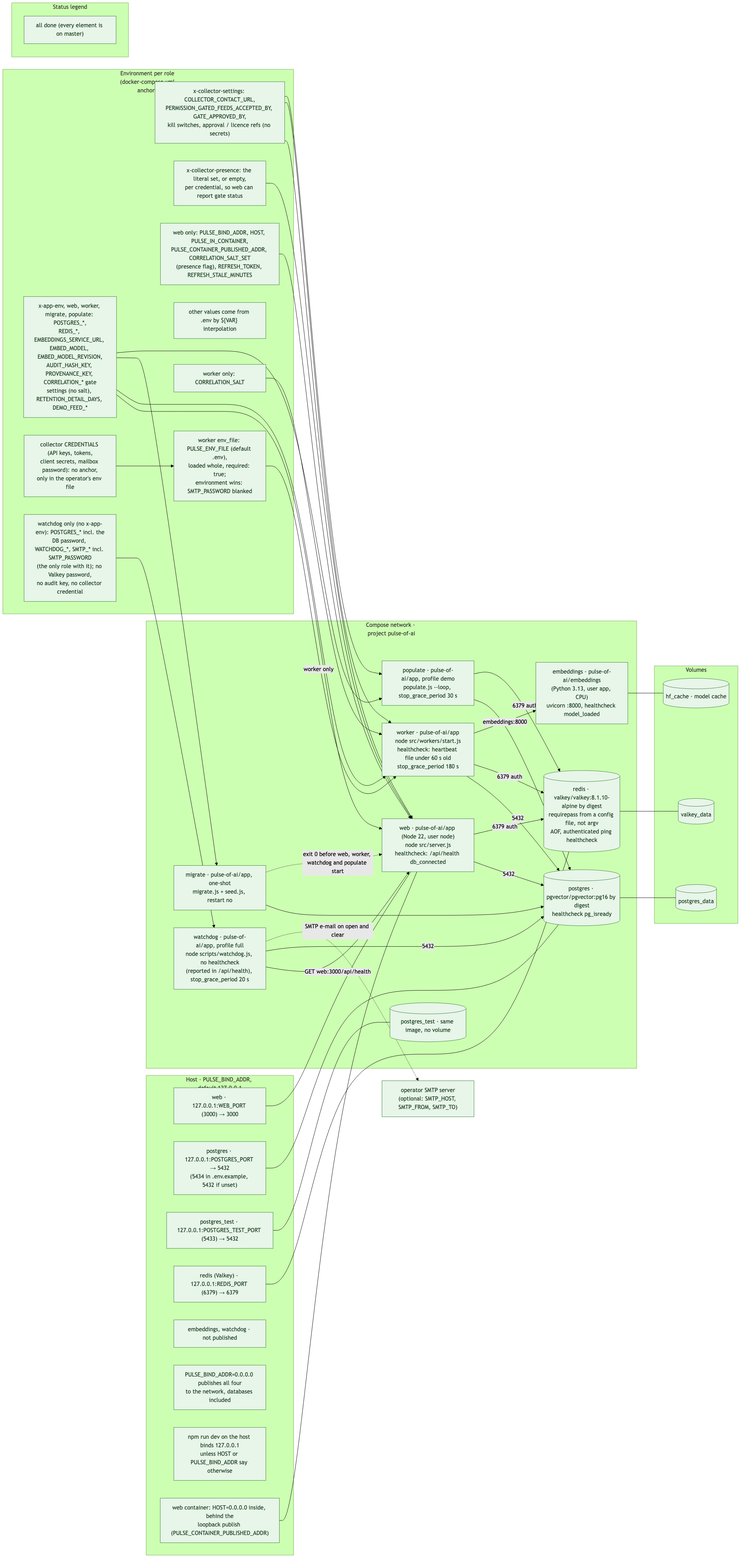
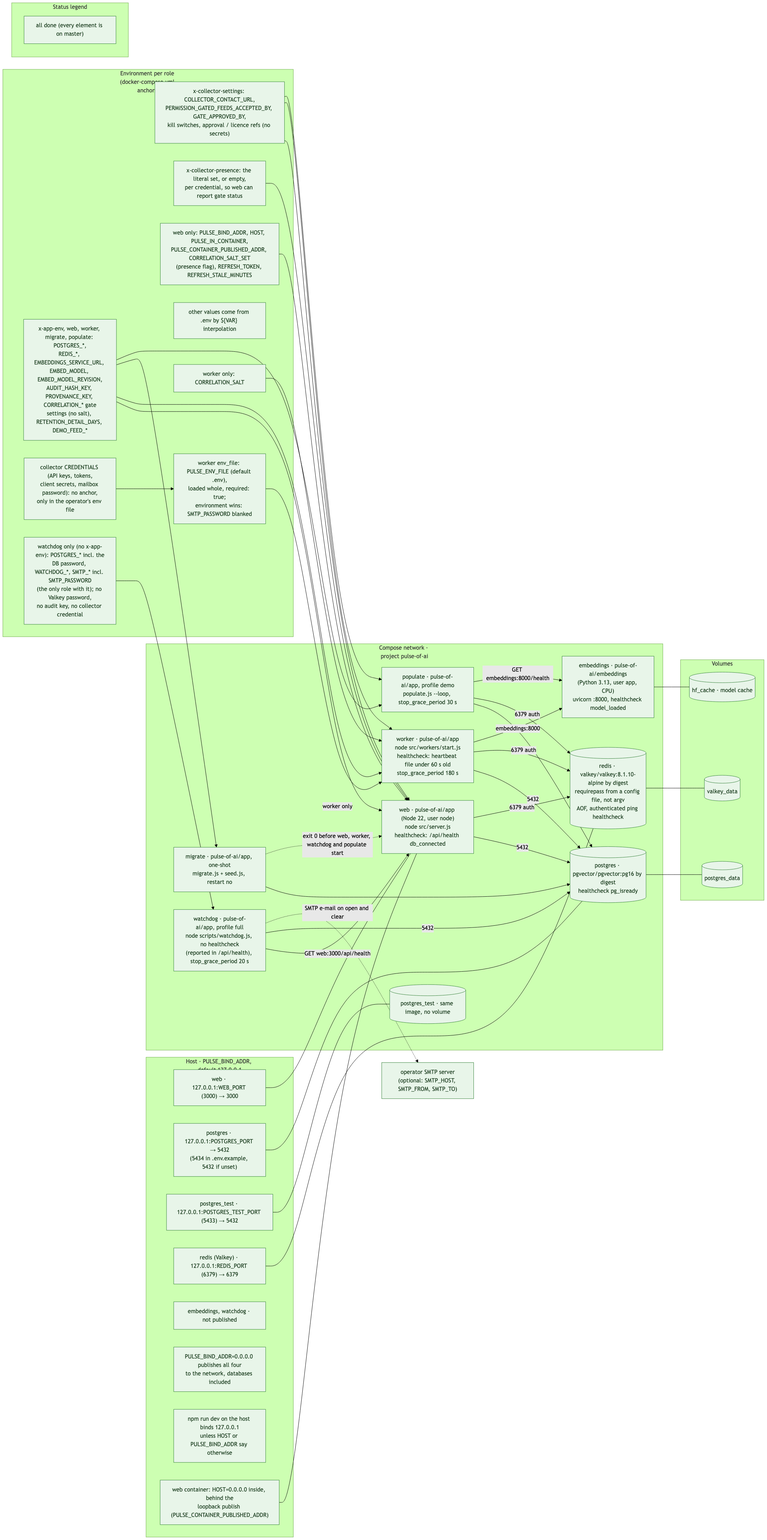
Fix the round-4 D1 and D2 diagram audit findings
D1 (architecture, deployment, trust boundaries, collection flows, refresh):
populate's direct embeddings health probe is drawn (F1); the proxy-header
list names only Forwarded, X-Forwarded-For / -Host and X-Real-IP (F2); the
claim rule carries the jitter slack (F3); robots.txt covers RSS / Atom,
Pew's WordPress API and Discourse forums (F4); retries cover network
errors but not DNS failures (F5); an unkeyed id is stored as SHA-256 (F6);
awaiting_retries jobs and dead closers close on the hard cap (F7).

D2 (ERDs, collector framework, README, MANIFEST, hash test): erd-3 names
the demo purge's profile deletes and its real writers (F1, F2); erd-4,
MANIFEST and README add migration 061 and the other errata / approval /
window writers (F3); ResponseDecodeError, endCooldown, decayRefusal and
probationOver are drawn (F4, F5); two spec-drift cells corrected (F6, F7);
MANIFEST spec cells include section 19 (F10); erd-1 and erd-4 gain Spec
lines so every .mmd names its spec sections (F11). The M2 and S3 hash-test
mutations now change rendered content: a drawn label word and one node's
class (F8, F9).

Eleven diagrams re-rendered (forest, under 8000 px, hash embedded) and
their MANIFEST PNG sizes regenerated. render.sh --check and
npm run test:diagrams (11 passed) pass.

Changed region(s): [[0.0, 0.0, 1.0, 1.0]]

diff --git a/docs/diagrams/data/erd-3-retention-and-correlation.html b/docs/diagrams/data/erd-3-retention-and-correlation.html
@@ -24,12 +24,12 @@
 </head>
 <body>
 <h1>Data model 3 of 4 · retention, rollups, correlation, migrations</h1>
-<p class="summary">The GDPR lifecycle log, the monthly rollups and compaction log of the layered retention model, the pseudonymous cross-platform correlation tables (never written: correlateUser throws; compaction only deletes demo sightings), the correlation gate log, and the migration ledger.</p>
+<p class="summary">The GDPR lifecycle log, the monthly rollups and compaction log of the layered retention model, the pseudonymous cross-platform correlation tables (never written: correlateUser throws; the demo purge of compaction only deletes demo sightings and the profiles they leave unreferenced, and recounts the others), the correlation gate log, and the migration ledger.</p>
 <p class="source">Canonical source: <code>erd-3-retention-and-correlation.mmd</code> · index: <code>docs/diagrams/README.md</code></p>
 <pre class="mermaid">
 %% Title: Data model 3 of 4 · retention, rollups, correlation, migrations
-%% Summary: The GDPR lifecycle log, the monthly rollups and compaction log of the layered retention model, the pseudonymous cross-platform correlation tables (never written: correlateUser throws; compaction only deletes demo sightings), the correlation gate log, and the migration ledger.
-%% Sources: src/db/migrations/002 (data_retention_log), 005, 006, 036 and 056 (correlation_gate_events, append-only trigger); scripts/migrate.js (schema_migrations). Writers: src/pipeline/ingest.js (collected), src/collectors/retention.js (blanked_platform_terms, text_removed_detail_window), src/collectors/run-retention.js (rolled_up_source_runs), scripts/compact.js (compacted, purged_demo, compaction_log), src/collectors/governance.js (correlation_gate_events), src/pipeline/correlation.js and correlation-gate.js. Spec: TECHNICAL_SPEC.md sections 19 (layered retention) and 20 (correlation). raw_posts and data_sources are shown with their keys only. Dotted lines are logical links without a foreign key.
+%% Summary: The GDPR lifecycle log, the monthly rollups and compaction log of the layered retention model, the pseudonymous cross-platform correlation tables (never written: correlateUser throws; the demo purge of compaction only deletes demo sightings and the profiles they leave unreferenced, and recounts the others), the correlation gate log, and the migration ledger.
+%% Sources: src/db/migrations/002 (data_retention_log), 005, 006, 036 and 056 (correlation_gate_events, append-only trigger); scripts/migrate.js (schema_migrations). Writers: src/pipeline/ingest.js (collected), src/collectors/retention.js (blanked_platform_terms, text_removed_detail_window), src/collectors/run-retention.js (rolled_up_source_runs), scripts/compact.js (compacted, purged_demo, compaction_log), src/collectors/governance.js (correlation_gate_events, with the status from src/pipeline/correlation-gate.js), scripts/compact.js (demo purge of user_platform_sightings and pseudonymous_users); src/pipeline/correlation.js writes nothing (correlateUser throws). Spec: TECHNICAL_SPEC.md sections 19 (layered retention) and 20 (correlation). raw_posts and data_sources are shown with their keys only. Dotted lines are logical links without a foreign key.
 erDiagram
 
   data_retention_log {

diff --git a/docs/diagrams/flows/collection-2-fetch-store-score.html b/docs/diagrams/flows/collection-2-fetch-store-score.html
@@ -35,8 +35,8 @@ flowchart LR
   subgraph FETCH["Fetch · one collector per open route"]
     direction TB
     F1["13 · buildCollectors(): one instance per open route;&lt;br/&gt;the constructor throws GateClosedError&lt;br/&gt;if route.requires is missing"]:::done
-    F2["14 · HttpClient checks every hop before sending it:&lt;br/&gt;https only, public host, route allowedHosts (SSRF guard),&lt;br/&gt;DNS answers checked and pinned;&lt;br/&gt;robots.txt for publisher RSS routes (conservative);&lt;br/&gt;redirects followed manually, max 4;&lt;br/&gt;a credentialed request never crosses origins"]:::done
-    F3["15 · User-Agent PulseOfAI/#lt;version#gt; (+contact URL);&lt;br/&gt;per-host spacing; 20 s timeout;&lt;br/&gt;2 retries on 429 / 5xx honouring Retry-After;&lt;br/&gt;ETag / Last-Modified → 304 not modified"]:::done
+    F2["14 · HttpClient checks every hop before sending it:&lt;br/&gt;https only, public host, route allowedHosts (SSRF guard),&lt;br/&gt;DNS answers checked and pinned;&lt;br/&gt;robots.txt for RSS / Atom feeds (not arXiv or&lt;br/&gt;licensed feeds), Pew's WordPress API and&lt;br/&gt;Discourse forums (conservative);&lt;br/&gt;redirects followed manually, max 4;&lt;br/&gt;a credentialed request never crosses origins"]:::done
+    F3["15 · User-Agent PulseOfAI/#lt;version#gt; (+contact URL);&lt;br/&gt;per-host spacing; 20 s timeout;&lt;br/&gt;at most 2 retries on 429 / 5xx (honouring Retry-After)&lt;br/&gt;and network errors (not DNS failures);&lt;br/&gt;ETag / Last-Modified → 304 not modified"]:::done
     F4["16 · caps: 5 MB decoded per response (route override),&lt;br/&gt;robots.txt 500 KiB, bulk file 50 MB;&lt;br/&gt;a DTD with entity declarations is refused"]:::done
     F5{"401 / 403 / 451, bot&lt;br/&gt;challenge or robots&lt;br/&gt;disallow?"}:::done
     F1 --&gt; F2 --&gt; F3 --&gt; F4 --&gt; F5
@@ -45,7 +45,7 @@ flowchart LR
   subgraph NORM["Normalise · base.js collect() → toPayload()"]
     direction TB
     N1["17 · raw text capped, HTML to text (linear),&lt;br/&gt;identity redaction, ingest@1.7.0: e-mails, @handles,&lt;br/&gt;Reddit u/ names, phones, profile links, cc names,&lt;br/&gt;sign-offs, Wikipedia unsigned notes"]:::done
-    N2["18 · allowlisted payload: title, text, link unless an&lt;br/&gt;identity link, published_at, language, city-level&lt;br/&gt;location (basis content or publisher), licence,&lt;br/&gt;attribution; an identity-bearing upstream id is&lt;br/&gt;stored only as route:fp:HMAC"]:::done
+    N2["18 · allowlisted payload: title, text, link unless an&lt;br/&gt;identity link, published_at, language, city-level&lt;br/&gt;location (basis content or publisher), licence,&lt;br/&gt;attribution; an identity-bearing upstream id is&lt;br/&gt;stored only as route:fp:HMAC (an unkeyed&lt;br/&gt;SHA-256 when no key is set)"]:::done
     N3["19 · provenance_fingerprint = HMAC-SHA256(&lt;br/&gt;PROVENANCE_KEY or AUDIT_HASH_KEY,&lt;br/&gt;slug : upstream id : source URL)"]:::done
     N4["20 · drop items older than maxAgeDays (default 7);&lt;br/&gt;admission filter admission_filter@1.0.0&lt;br/&gt;(AI scope, ai-filter.js) on scope 'filter' routes;&lt;br/&gt;dedupe within the batch"]:::done
     N1 --&gt; N2 --&gt; N3 --&gt; N4

diff --git a/docs/diagrams/data/erd-4-governance-alerting-maintenance.html b/docs/diagrams/data/erd-4-governance-alerting-maintenance.html
@@ -29,7 +29,7 @@
 <pre class="mermaid">
 %% Title: Data model 4 of 4 · governance, alert resolutions, maintenance, watchdog, rolling bias window
 %% Summary: The audited alert resolutions and their named approvals (with the alert_status view), methodology errata, the daily source-run rollup, the source gate and terms-snapshot logs, the maintenance and watchdog state, the watchdog e-mail log, and the rolling 24 h bias window runs and assessments.
-%% Sources: src/db/migrations/028, 030, 032, 034, 035, 036, 038, 039, 041, 050, 056, 060. Writers: src/collectors/source-alerts.js, src/watchdog/store.js and migrations 028, 032, 038 (resolutions of historical alerts) (alert_resolutions), src/collectors/run-retention.js (source_run_daily), src/collectors/governance.js (source_gate_events, source_terms_snapshots), src/workers/maintenance.worker.js (maintenance_state), src/watchdog/store.js (watchdog_state, watchdog_notifications), src/pipeline/bias-window.js and bias.js (bias_window_*), scripts/seed.js and migration 030 (methodology_errata). alert_events, methodology_versions and data_sources are shown with their keys only (full columns in data models 1 and 2). APPEND-ONLY (BEFORE UPDATE OR DELETE trigger forbid_append_only_change): alert_resolutions, alert_resolution_approvals, methodology_errata, source_gate_events, source_terms_snapshots (036), watchdog_notifications (050), bias_window_assessments (060); correlation_gate_events (056) is in data model 3. VIEW_alert_status is a view, not a table. Dotted lines are logical links without a foreign key.
+%% Sources: src/db/migrations/028, 030, 032, 034, 035, 036, 038, 039, 041, 050, 056, 060, 061. Writers: src/collectors/source-alerts.js, src/watchdog/store.js and migrations 028, 032, 038 (resolutions of historical alerts) (alert_resolutions), src/collectors/run-retention.js (source_run_daily), src/collectors/governance.js (source_gate_events, source_terms_snapshots), src/workers/maintenance.worker.js (maintenance_state), src/watchdog/store.js (watchdog_state, watchdog_notifications), src/pipeline/bias-window.js and bias.js (bias_window_*), scripts/seed.js and migrations 030 and 061 (methodology_errata), migration 036 (alert_resolution_approvals). alert_events, methodology_versions and data_sources are shown with their keys only (full columns in data models 1 and 2). APPEND-ONLY (BEFORE UPDATE OR DELETE trigger forbid_append_only_change): alert_resolutions, alert_resolution_approvals, methodology_errata, source_gate_events, source_terms_snapshots (036), watchdog_notifications (050), bias_window_assessments (060); correlation_gate_events (056) is in data model 3. VIEW_alert_status is a view, not a table. Dotted lines are logical links without a foreign key. Spec: TECHNICAL_SPEC.md sections 6, 9, 14, 17, 19.
 erDiagram
 
   alert_resolutions {

diff --git a/docs/diagrams/architecture/trust-boundaries.html b/docs/diagrams/architecture/trust-boundaries.html
@@ -42,7 +42,7 @@ flowchart LR
     direction TB
     C1["every response: CSP default-src 'self', script-src 'self',&lt;br/&gt;style-src 'self', object-src 'none', base-uri 'self',&lt;br/&gt;frame-ancestors 'none';&lt;br/&gt;X-Content-Type-Options nosniff, X-Frame-Options DENY,&lt;br/&gt;Referrer-Policy no-referrer"]:::done
     C2["CORS only on the read-only router;&lt;br/&gt;POST /api/refresh mounted first, without CORS,&lt;br/&gt;OPTIONS answered 403"]:::done
-    C3["refresh CSRF guard: Sec-Fetch-Site must be same-origin or none;&lt;br/&gt;if the header is absent, Origin (else Referer) host = Host;&lt;br/&gt;anything else 403;&lt;br/&gt;X-Refresh-Token checked whenever REFRESH_TOKEN is set;&lt;br/&gt;no token set: 403 when bound beyond loopback,&lt;br/&gt;on a wildcard bind outside the compose container,&lt;br/&gt;or via a proxy (Forwarded, X-Forwarded-#42;, X-Real-IP);&lt;br/&gt;409 in flight, 60 s global debounce"]:::done
+    C3["refresh CSRF guard: Sec-Fetch-Site must be same-origin or none;&lt;br/&gt;if the header is absent, Origin (else Referer) host = Host;&lt;br/&gt;anything else 403;&lt;br/&gt;X-Refresh-Token checked whenever REFRESH_TOKEN is set;&lt;br/&gt;no token set: 403 when bound beyond loopback,&lt;br/&gt;on a wildcard bind outside the compose container,&lt;br/&gt;or via a proxy (Forwarded, X-Forwarded-For / -Host, X-Real-IP);&lt;br/&gt;409 in flight, 60 s global debounce"]:::done
     C4["input validation: UUID post ids, integer hours,&lt;br/&gt;canonical categories, dates, limit ≤ 100;&lt;br/&gt;malformed JSON → 400 JSON (jsonErrorHandler);&lt;br/&gt;no stack, path or upstream text in any error;&lt;br/&gt;500s return a generic message only"]:::done
     C5["audit input_hash served as HMAC(AUDIT_HASH_KEY),&lt;br/&gt;omitted without a key; /api/sources serves error_kind&lt;br/&gt;and http_status, never error text or env values"]:::done
     C6["frontend: textContent only, no innerHTML;&lt;br/&gt;all assets self-hosted, no CDN"]:::done

diff --git a/docs/diagrams/data/erd-1-sources-and-jobs.html b/docs/diagrams/data/erd-1-sources-and-jobs.html
@@ -29,7 +29,7 @@
 <pre class="mermaid">
 %% Title: Data model 1 of 4 · sources, collection state, jobs, alerts, Reddit
 %% Summary: The tables that describe the 52 registry sources, their collection state and runs, the processing jobs every score belongs to, alerts, and Reddit's selection, budget and maintenance state.
-%% Sources: src/db/migrations/001, 003, 013, 016, 018, 019, 020, 021, 023, 025, 033, 037, 038, 040, 050, 062. Alert writers: src/pipeline/bias.js (writeAlertEvent), src/collectors/source-alerts.js, source-health.js, retention-overdue.js, state.js, governance.js, src/watchdog/store.js and conditions.js. raw_posts is shown with its keys only (full columns in data model 2); alert resolutions, run rollups, gate events and the watchdog tables are in data model 4. Dotted lines are logical links without a foreign key. NOTE_alert_type_values is a legend box, not a table.
+%% Sources: src/db/migrations/001, 003, 013, 016, 018, 019, 020, 021, 023, 025, 033, 037, 038, 040, 050, 062. Alert writers: src/pipeline/bias.js (writeAlertEvent), src/collectors/source-alerts.js, source-health.js, retention-overdue.js, state.js, governance.js, src/watchdog/store.js and conditions.js. raw_posts is shown with its keys only (full columns in data model 2); alert resolutions, run rollups, gate events and the watchdog tables are in data model 4. Dotted lines are logical links without a foreign key. NOTE_alert_type_values is a legend box, not a table. Spec: TECHNICAL_SPEC.md section 6.
 erDiagram
 
   data_sources {

diff --git a/docs/diagrams/flows/collection-3-cycle-close-bias-alerts.html b/docs/diagrams/flows/collection-3-cycle-close-bias-alerts.html
@@ -34,7 +34,7 @@ flowchart LR
 
   subgraph CLOSE["Cycle close · worker timer every 30 s"]
     direction TB
-    C1["29 · claimDueCycles(): FOR UPDATE SKIP LOCKED,&lt;br/&gt;status → closing, for every cron job whose window&lt;br/&gt;+ 60 s grace has passed with inflight_runs ≤ 0&lt;br/&gt;(or past the hard cap max(15 min, 4 × window)),&lt;br/&gt;and every awaiting_retries job whose retries are done"]:::done
+    C1["29 · claimDueCycles(): FOR UPDATE SKIP LOCKED,&lt;br/&gt;status → closing, for every cron job whose window&lt;br/&gt;+ 60 s grace has passed with inflight_runs ≤ 0&lt;br/&gt;(or past the hard cap max(15 min, 4 × window)),&lt;br/&gt;every awaiting_retries job whose retries are done&lt;br/&gt;(or past the same cap), and a cycle left closing&lt;br/&gt;by a dead closer (2 × the cap)"]:::done
     C2["30 · posts = COUNT(DISTINCT raw_post_id)&lt;br/&gt;in decision_audit_log for the job"]:::done
     C3{"posts #gt; 0?"}:::done
     C4["31 · runBiasChecks(job, bias@1.6.0), once:&lt;br/&gt;location_concentration (content-located posts,&lt;br/&gt;publisher-located excluded, min 30) ·&lt;br/&gt;platform_sentiment_parity (categories with ≥ 10&lt;br/&gt;posts, at least 2) · negative_dominance (min 30)&lt;br/&gt;→ 3 bias_assessments rows with methodology_version_id;&lt;br/&gt;below a minimum: #quot;insufficient sample#quot;,&lt;br/&gt;no violation, no alert"]:::done

diff --git a/docs/diagrams/flows/collection-1-schedule-and-gates.html b/docs/diagrams/flows/collection-1-schedule-and-gates.html
@@ -62,7 +62,7 @@ flowchart LR
     R2{"10 · database kill switch?&lt;br/&gt;data_sources.collection_disabled_at&lt;br/&gt;(npm run source:disable, refused&lt;br/&gt;without GATE_APPROVED_BY)"}:::done
     R3{"11 · refused state?&lt;br/&gt;source_collection_state&lt;br/&gt;access_denied_at, refused_until"}:::done
     R4["SOURCE_#lt;SLUG#gt;_RESET date at or after the&lt;br/&gt;last refusal and a valid GATE_APPROVED_BY:&lt;br/&gt;clearRefusal() + source_gate_events&lt;br/&gt;refusal_reset, one transaction"]:::done
-    R5{"12 · claim: last attempt older than&lt;br/&gt;the poll interval? (state.claim,&lt;br/&gt;atomic across worker and refresh)"}:::done
+    R5{"12 · claim: last attempt older than&lt;br/&gt;the poll interval, less a jitter slack&lt;br/&gt;(at most 20 %)? (state.claim,&lt;br/&gt;atomic across worker and refresh)"}:::done
     R1 -- no --&gt; R2
     R2 -- no --&gt; R3
     R3 -- "reset by env" --&gt; R4 --&gt; R5

diff --git a/docs/diagrams/sequences/refresh.html b/docs/diagrams/sequences/refresh.html
@@ -80,7 +80,7 @@ sequenceDiagram
   I-&gt;&gt;DB: scores + audit rows under the job, slot released,&lt;br/&gt;embed job when the relevance gate passes
   alt slots still held when the run ends
     W-&gt;&gt;DB: job awaiting_retries
-    Note over DB: cycle closer (every 30 s) finalizes it once every slot is released:&lt;br/&gt;counts from decision_audit_log, bias checks once, completed
+    Note over DB: cycle closer (every 30 s) finalizes it once every slot is released&lt;br/&gt;(or its age passes the hard cap max(15 min, 4 × window)):&lt;br/&gt;counts from decision_audit_log, bias checks once, completed
   else no slot held
     W-&gt;&gt;DB: completed: posts_processed counted from decision_audit_log,&lt;br/&gt;bias checks once when &gt; 0 (cycle.jobPostsProcessed)
   end

diff --git a/docs/diagrams/model/collector-framework.html b/docs/diagrams/model/collector-framework.html
@@ -158,6 +158,7 @@ classDiagram
     RedirectRefusedError
     ResponseTooLargeError
     BudgetExhaustedError
+    ResponseDecodeError
   }
   CollectorError &lt;|-- ErrorTypes
 
@@ -218,6 +219,8 @@ classDiagram
     +getRefusal(sourceId)
     +recordRefusal(sourceId, refusal, slug)
     +clearRefusal(sourceId, resolution, o: client)
+    +endCooldown(sourceId, probedDeniedAt) probe ok: 24 h probation, count kept
+    +decayRefusal(sourceId) count to 0 after probation
   }
   class cycle {
     &lt;&lt;module cycle.js&gt;&gt;
@@ -234,6 +237,7 @@ classDiagram
     +envReset(slug, env, deniedAt) date AND named approval
     +refusalOf(classified)
     +cooldownMs(n)
+    +probationOver(row, now)
     +resetEnv(slug)
   }
   class status {

diff --git a/docs/diagrams/architecture.html b/docs/diagrams/architecture.html
@@ -161,6 +161,7 @@ flowchart LR
   M1 -- "migrations + seed" --&gt; D0
   M2 -- "demo posts through the real scorers" --&gt; D2
   M2 -- "embed jobs" --&gt; Q3
+  M2 -- "GET /health (model loaded?)" --&gt; E1
   WD1 -- "GET /api/health" --&gt; W3
   WD1 -- "critical alert_events, alert_resolutions" --&gt; D3
   WD1 -- "SELECT 1, watchdog_state / _notifications" --&gt; D6

diff --git a/docs/diagrams/architecture/deployment-standup.html b/docs/diagrams/architecture/deployment-standup.html
@@ -100,6 +100,7 @@ flowchart LR
   MIGRATE --&gt; PG
   POP --&gt; PG
   POP -- "6379 auth" --&gt; RD
+  POP -- "GET embeddings:8000/health" --&gt; EMB
   PG --- V1
   RD --- V2
   EMB --- V3

diff --git a/docs/diagrams/MANIFEST-author.md b/docs/diagrams/MANIFEST-author.md
@@ -8,27 +8,27 @@ How to verify the artifacts: `bash docs/diagrams/render.sh --check` confirms tha
 
 | # | File (`docs/diagrams/`) | PNG px | Code it was derived from (the `.mmd` header) | Spec § | Status |
 |---|---|---|---|---|---|
-| 1 | `architecture.mmd` | 5806×5697 | Canonical source. architecture.html embeds this definition verbatim and architecture.png is rendered from it (bash docs/diagrams/render.sh). Sources: docker-compose.yml, src/server.js, src/routes/*, src/routes/health.js, src/queues/index.js, src/workers/start.js, src/workers/collect.worker.js, src/workers/ingest.worker.js, src/workers/maintenance.worker.js, src/workers/collector.scheduler.js, src/collectors/{runner,state,governance,source-health,retention-overdue}.js, src/collectors/reddit/maintenance.js, src/workers/heartbeat.js, scripts/watchdog.js, src/watchdog/*, public/index.html, src/config/source-registry.js, src/db/migrations/ (49 files, 001-065). Spec: TECHNICAL_SPEC.md sections 4, 7, 12, 17. Updated 2026-09-30. | 4, 7, 12, 17 | done |
-| 2 | `architecture/deployment-standup.mmd` | 2094×4404 | docker-compose.yml (x-app-env, x-collector-settings, x-collector-presence, x-app, services incl. worker env_file and watchdog, volumes), Dockerfile, python/Dockerfile, src/server.js (listenHost), src/routes/refresh.js, src/workers/heartbeat.js, scripts/watchdog.js, src/watchdog/config.js, scripts/standup.sh, .env.example. Spec: TECHNICAL_SPEC.md sections 5 and 8 (secrets management). Updated 2026-09-30. | 5, 8 | done |
-| 3 | `architecture/trust-boundaries.mmd` | 6446×4100 | src/server.js (jsonErrorHandler, listenHost), src/middleware/{same-origin,log-error}.js, src/db/connection.js (pool error logging), src/routes/{refresh,audit,sources}.js, src/collectors/{http,netguard,transport,robots,redact,errors,identity,normalize,provenance,governance}.js, src/config/source-registry.js (GATE_APPROVED_BY), src/config/methodology-registry.js (ingest@1.7.0), src/pipeline/ingest.js, src/db/migrations/035, 036 (append-only triggers), 056, docker-compose.yml, public/js/*.js (DOM discipline). Updated 2026-09-29. Spec: TECHNICAL_SPEC.md section 8 (security and privacy). | 8 | done |
-| 4 | `flows/collection-1-schedule-and-gates.mmd` | 5820×2678 | src/workers/collector.scheduler.js, src/workers/collect.worker.js, src/collectors/runner.js, src/config/source-registry.js (sourceStatus, openRoutes, namedApproval, killReason), src/config/methodology-registry.js (CURRENT_VERSIONS), src/collectors/state.js, src/collectors/refusal.js, src/collectors/governance.js (recordGateTransitions, recordGateEvent), scripts/source-admin.js; migrations 018, 020, 035, 056. Spec: TECHNICAL_SPEC.md section 17; ADR 0001 (kill switches, refused state, D1); PR #22 decision G5. | 17; ADR 0001 | done |
-| 5 | `flows/collection-2-fetch-store-score.mmd` | 6492×1336 | src/collectors/{index,base,http,netguard,transport,robots,normalize,identity,provenance,errors,redact,state,refusal,cycle,runner,ai-filter}.js, src/workers/{collect,ingest}.worker.js, src/pipeline/{ingest,sentiment,relevance,discourse,methodology}.js, src/config/methodology-registry.js; migrations 022, 031, 040, 042, 062. Spec: TECHNICAL_SPEC.md section 8 (PII handling, provenance); ADR 0001 (terms and politeness, D2); PR #22 decision G6. | 8, 17 | done |
-| 6 | `flows/collection-3-cycle-close-bias-alerts.mmd` | 5025×1400 | src/workers/start.js (closeDueCyclesOnce, every 30 s), src/workers/maintenance.worker.js (daily task), src/collectors/cycle.js, src/collectors/sweep.js, src/collectors/{source-health,retention-overdue,source-alerts}.js, src/pipeline/bias.js, src/pipeline/bias-window.js, scripts/bias-window.js, src/workers/{ingest,embed}.worker.js, src/pipeline/embeddings.js, python/embeddings_service.py, src/routes/{health,bias}.js, public/js/{main,ui,utils}.js; migrations 027, 028, 032, 036, 038, 060. Spec: TECHNICAL_SPEC.md sections 9 (bias monitoring, alert flow), 12 (embeddings); PR #22 decision G2. | 9, 12 | done |
+| 1 | `architecture.mmd` | 5806×5536 | Canonical source. architecture.html embeds this definition verbatim and architecture.png is rendered from it (bash docs/diagrams/render.sh). Sources: docker-compose.yml, src/server.js, src/routes/*, src/routes/health.js, src/queues/index.js, src/workers/start.js, src/workers/collect.worker.js, src/workers/ingest.worker.js, src/workers/maintenance.worker.js, src/workers/collector.scheduler.js, src/collectors/{runner,state,governance,source-health,retention-overdue}.js, src/collectors/reddit/maintenance.js, src/workers/heartbeat.js, scripts/watchdog.js, src/watchdog/*, public/index.html, src/config/source-registry.js, src/db/migrations/ (49 files, 001-065). Spec: TECHNICAL_SPEC.md sections 4, 7, 12, 17. Updated 2026-09-30. | 4, 7, 12, 17 | done |
+| 2 | `architecture/deployment-standup.mmd` | 2169×4352 | docker-compose.yml (x-app-env, x-collector-settings, x-collector-presence, x-app, services incl. worker env_file and watchdog, volumes), Dockerfile, python/Dockerfile, src/server.js (listenHost), src/routes/refresh.js, src/workers/heartbeat.js, scripts/watchdog.js, src/watchdog/config.js, scripts/standup.sh, .env.example. Spec: TECHNICAL_SPEC.md sections 5 and 8 (secrets management). Updated 2026-09-30. | 5, 8 | done |
+| 3 | `architecture/trust-boundaries.mmd` | 6446×4148 | src/server.js (jsonErrorHandler, listenHost), src/middleware/{same-origin,log-error}.js, src/db/connection.js (pool error logging), src/routes/{refresh,audit,sources}.js, src/collectors/{http,netguard,transport,robots,redact,errors,identity,normalize,provenance,governance}.js, src/config/source-registry.js (GATE_APPROVED_BY), src/config/methodology-registry.js (ingest@1.7.0), src/pipeline/ingest.js, src/db/migrations/035, 036 (append-only triggers), 056, docker-compose.yml, public/js/*.js (DOM discipline). Updated 2026-09-29. Spec: TECHNICAL_SPEC.md section 8 (security and privacy). | 8 | done |
+| 4 | `flows/collection-1-schedule-and-gates.mmd` | 5868×2714 | src/workers/collector.scheduler.js, src/workers/collect.worker.js, src/collectors/runner.js, src/config/source-registry.js (sourceStatus, openRoutes, namedApproval, killReason), src/config/methodology-registry.js (CURRENT_VERSIONS), src/collectors/state.js, src/collectors/refusal.js, src/collectors/governance.js (recordGateTransitions, recordGateEvent), scripts/source-admin.js; migrations 018, 020, 035, 056. Spec: TECHNICAL_SPEC.md section 17; ADR 0001 (kill switches, refused state, D1); PR #22 decision G5. | 17; ADR 0001 | done |
+| 5 | `flows/collection-2-fetch-store-score.mmd` | 6492×1360 | src/collectors/{index,base,http,netguard,transport,robots,normalize,identity,provenance,errors,redact,state,refusal,cycle,runner,ai-filter}.js, src/workers/{collect,ingest}.worker.js, src/pipeline/{ingest,sentiment,relevance,discourse,methodology}.js, src/config/methodology-registry.js; migrations 022, 031, 040, 042, 062. Spec: TECHNICAL_SPEC.md section 8 (PII handling, provenance); ADR 0001 (terms and politeness, D2); PR #22 decision G6. | 8, 17 | done |
+| 6 | `flows/collection-3-cycle-close-bias-alerts.mmd` | 5025×1472 | src/workers/start.js (closeDueCyclesOnce, every 30 s), src/workers/maintenance.worker.js (daily task), src/collectors/cycle.js, src/collectors/sweep.js, src/collectors/{source-health,retention-overdue,source-alerts}.js, src/pipeline/bias.js, src/pipeline/bias-window.js, scripts/bias-window.js, src/workers/{ingest,embed}.worker.js, src/pipeline/embeddings.js, python/embeddings_service.py, src/routes/{health,bias}.js, public/js/{main,ui,utils}.js; migrations 027, 028, 032, 036, 038, 060. Spec: TECHNICAL_SPEC.md sections 9 (bias monitoring, alert flow), 12 (embeddings); PR #22 decision G2. | 9, 12 | done |
 | 7 | `flows/data-flow-live.mmd` | 6982×3464 | src/collectors/runner.js, src/workers/{collect,ingest,maintenance}.worker.js, src/collectors/ai-filter.js, src/pipeline/*.js, src/routes/*.js, public/js/config/api.config.js, public/js/{data,story,ui,main}.js. Spec: TECHNICAL_SPEC.md sections 7 (API), 10 (explainability chain), 11 (user experience). | 7, 10, 11 | done |
 | 8 | `flows/data-flow-demo-and-retention.mmd` | 5342×4544 | scripts/populate.js, scripts/standup.sh, docker-compose.yml (populate, collector settings), src/config/data-mode.js, src/config/source-registry.js (retentionHours, sourceStatus), src/workers/maintenance.worker.js, src/workers/start.js, src/collectors/retention.js, src/collectors/run-retention.js, src/collectors/reddit/{maintenance,recheck}.js, scripts/compact.js; migrations 005, 025, 031, 034, 039. Spec: TECHNICAL_SPEC.md section 19 (layered retention); ADR 0001 ruling 9; PR #22 decisions G3, G4, G5. | 19; ADR 0001 ruling 9 | done |
-| 9 | `data/erd-1-sources-and-jobs.mmd` | 7408×4966 | src/db/migrations/001, 003, 013, 016, 018, 019, 020, 021, 023, 025, 033, 037, 038, 040, 050, 062. Alert writers: src/pipeline/bias.js (writeAlertEvent), src/collectors/source-alerts.js, source-health.js, retention-overdue.js, state.js, governance.js, src/watchdog/store.js and conditions.js. raw_posts is shown with its keys only (full columns in data model 2); alert resolutions, run rollups, gate events and the watchdog tables are in data model 4. Dotted lines are logical links without a foreign key. NOTE_alert_type_values is a legend box, not a table. | 6 | done |
+| 9 | `data/erd-1-sources-and-jobs.mmd` | 7408×4966 | src/db/migrations/001, 003, 013, 016, 018, 019, 020, 021, 023, 025, 033, 037, 038, 040, 050, 062. Alert writers: src/pipeline/bias.js (writeAlertEvent), src/collectors/source-alerts.js, source-health.js, retention-overdue.js, state.js, governance.js, src/watchdog/store.js and conditions.js. raw_posts is shown with its keys only (full columns in data model 2); alert resolutions, run rollups, gate events and the watchdog tables are in data model 4. Dotted lines are logical links without a foreign key. NOTE_alert_type_values is a legend box, not a table. Spec: TECHNICAL_SPEC.md section 6. | 6 | done |
 | 10 | `data/erd-2-posts-scores-audit.mmd` | 6216×4962 | src/db/migrations/001, 002, 003, 004, 006, 010, 012, 017, 022, 025, 042; src/pipeline/ingest.js (insert), src/collectors/retention.js (blanking), src/config/methodology-registry.js (components). The rolling-window bias tables (060) are in data model 4. Spec: TECHNICAL_SPEC.md sections 6 and 10 (the explainability chain). data_sources and processing_jobs are shown with their keys only (full columns in data model 1). | 6, 10 | done |
-| 11 | `data/erd-3-retention-and-correlation.mmd` | 5272×1272 | src/db/migrations/002 (data_retention_log), 005, 006, 036 and 056 (correlation_gate_events, append-only trigger); scripts/migrate.js (schema_migrations). Writers: src/pipeline/ingest.js (collected), src/collectors/retention.js (blanked_platform_terms, text_removed_detail_window), src/collectors/run-retention.js (rolled_up_source_runs), scripts/compact.js (compacted, purged_demo, compaction_log), src/collectors/governance.js (correlation_gate_events), src/pipeline/correlation.js and correlation-gate.js. Spec: TECHNICAL_SPEC.md sections 19 (layered retention) and 20 (correlation). raw_posts and data_sources are shown with their keys only. Dotted lines are logical links without a foreign key. | 19, 20 | done |
-| 12 | `model/collector-framework.mmd` | 4764×3288 | src/collectors/{base,index,http,robots,netguard,transport,errors,runner,cycle,state,refusal,status,retention,normalize,identity,provenance,redact,ai-filter,governance,terms-text,source-health,source-alerts,retention-overdue,run-retention,stale-jobs,sweep}.js, src/collectors/adapters/*.js, src/collectors/reddit/{api,budget}.js, src/config/source-registry.js. Spec: ADR 0001 (strategy / adapter pattern, gate status); TECHNICAL_SPEC.md section 17. | 17; ADR 0001 | done |
-| 13 | `model/pipeline-and-workers.mmd` | 4586×3113 | src/pipeline/*.js, src/collectors/ai-filter.js, src/queues/{index,connection,pending}.js, src/workers/*.js, src/collectors/runner.js (single-job finalization), src/db/pool-size.js (workerConcurrency), src/audit/replay.js, src/watchdog/*.js, scripts/watchdog.js, src/config/methodology-registry.js (CURRENT_VERSIONS), docker-compose.yml (redis service = Valkey 8). Updated 2026-09-30. Spec: TECHNICAL_SPEC.md sections 9, 10, 12, 18, 19, 20. Versions are CURRENT_VERSIONS of the methodology registry. | 9, 10, 12, 18, 20 | done |
+| 11 | `data/erd-3-retention-and-correlation.mmd` | 5272×1272 | src/db/migrations/002 (data_retention_log), 005, 006, 036 and 056 (correlation_gate_events, append-only trigger); scripts/migrate.js (schema_migrations). Writers: src/pipeline/ingest.js (collected), src/collectors/retention.js (blanked_platform_terms, text_removed_detail_window), src/collectors/run-retention.js (rolled_up_source_runs), scripts/compact.js (compacted, purged_demo, compaction_log), src/collectors/governance.js (correlation_gate_events, with the status from src/pipeline/correlation-gate.js), scripts/compact.js (demo purge of user_platform_sightings and pseudonymous_users); src/pipeline/correlation.js writes nothing (correlateUser throws). Spec: TECHNICAL_SPEC.md sections 19 (layered retention) and 20 (correlation). raw_posts and data_sources are shown with their keys only. Dotted lines are logical links without a foreign key. | 19, 20 | done |
+| 12 | `model/collector-framework.mmd` | 4764×3390 | src/collectors/{base,index,http,robots,netguard,transport,errors,runner,cycle,state,refusal,status,retention,normalize,identity,provenance,redact,ai-filter,governance,terms-text,source-health,source-alerts,retention-overdue,run-retention,stale-jobs,sweep}.js, src/collectors/adapters/*.js, src/collectors/reddit/{api,budget}.js, src/config/source-registry.js. Spec: ADR 0001 (strategy / adapter pattern, gate status); TECHNICAL_SPEC.md section 17. | 17; ADR 0001 | done |
+| 13 | `model/pipeline-and-workers.mmd` | 4586×3113 | src/pipeline/*.js, src/collectors/ai-filter.js, src/queues/{index,connection,pending}.js, src/workers/*.js, src/collectors/runner.js (single-job finalization), src/db/pool-size.js (workerConcurrency), src/audit/replay.js, src/watchdog/*.js, scripts/watchdog.js, src/config/methodology-registry.js (CURRENT_VERSIONS), docker-compose.yml (redis service = Valkey 8). Updated 2026-09-30. Spec: TECHNICAL_SPEC.md sections 9, 10, 12, 18, 19, 20. Versions are CURRENT_VERSIONS of the methodology registry. | 9, 10, 12, 18, 19, 20 | done |
 | 14 | `model/frontend-modules.mmd` | 7030×4278 | public/index.html (script order), public/js/*.js, public/js/config/*.js. Updated 2026-09-29 (PR #22: the watchdog SYSTEM ALERT chip and banner, the SYSTEM WATCHDOG drawer section, the publisher-location layer). Spec: TECHNICAL_SPEC.md section 11; PRD section 4.3 (the FuN.zip prototype is the design of record). | 11; PRD 4.3 | done |
 | 15 | `sequences/audit-receipt.mmd` | 3452×3874 | public/js/ui.js (openAudit, mapAuditResponse, AUDIENCES), src/routes/audit.js, src/config/{audit-narration,bias-lineage,bias-vocabulary,source-registry,data-mode}.js, src/collectors/retention.js (retentionStatus), src/db/migrations/042_admission_filter.sql. Updated 2026-09-29. Spec: TECHNICAL_SPEC.md sections 7 (GET /api/audit/:post_id), 8 (provenance), 10 (explainability chain, audiences). | 7, 8, 10 | done |
-| 16 | `sequences/refresh.mmd` | 4834×4266 | src/routes/refresh.js (refreshTokenCheck, boundBeyondLoopback, viaProxy), src/middleware/same-origin.js, src/server.js (mount order, no CORS, listenHost), src/queues/index.js (collect.refresh, ingest), src/workers/collect.worker.js (processRefreshJob, refreshDeadlineMs), src/collectors/runner.js (scoreVia queue), src/workers/ingest.worker.js, src/collectors/cycle.js (reserveRetry, releaseRetry, closeCycles, jobPostsProcessed), src/pipeline/bias.js (runBiasChecks), src/collectors/stale-jobs.js, src/db/migrations/019_refresh_inflight.sql, 040_job_progress.sql. Updated 2026-09-30. Spec: TECHNICAL_SPEC.md section 7 (POST /api/refresh) and section 8 (rate limiting). The page itself never calls this endpoint. | 7, 8 | done |
+| 16 | `sequences/refresh.mmd` | 4828×4304 | src/routes/refresh.js (refreshTokenCheck, boundBeyondLoopback, viaProxy), src/middleware/same-origin.js, src/server.js (mount order, no CORS, listenHost), src/queues/index.js (collect.refresh, ingest), src/workers/collect.worker.js (processRefreshJob, refreshDeadlineMs), src/collectors/runner.js (scoreVia queue), src/workers/ingest.worker.js, src/collectors/cycle.js (reserveRetry, releaseRetry, closeCycles, jobPostsProcessed), src/pipeline/bias.js (runBiasChecks), src/collectors/stale-jobs.js, src/db/migrations/019_refresh_inflight.sql, 040_job_progress.sql. Updated 2026-09-30. Spec: TECHNICAL_SPEC.md section 7 (POST /api/refresh) and section 8 (rate limiting). The page itself never calls this endpoint. | 7, 8 | done |
 | 17 | `states/source-gate-status.mmd` | 7038×3090 | src/config/source-registry.js (GATE_STATUSES, sourceStatus, killReason, openRoutes, routesAwaitingApproval, namedApproval, isGatedRoute), src/collectors/status.js (registryFields, isOnline, RUNTIME_STATUSES), src/collectors/refusal.js (refusalGate, envReset), src/collectors/state.js, src/collectors/governance.js (recordGateTransitions), scripts/source-admin.js; migrations 018, 020, 035, 056. Spec: TECHNICAL_SPEC.md section 17; ADR 0001 (gate status, kill switches, the blocked 4, the refused state, D1); PR #22 decision G5 (named approval). | 17; ADR 0001 | done |
 | 18 | `states/story-beats.mmd` | 4483×893 | public/js/config/story.config.js (STORY, 11 beats), public/js/story.js (onScroll, jump, explore threshold, pulse:* events), public/js/main.js (scrollToExplore, about panel), public/js/config/legal.config.js, public/js/ui.js (explore chrome, drawers), public/index.html. Spec: TECHNICAL_SPEC.md section 11; PRD section 4.3 (FuN.zip prototype). | 11; PRD 4.3 | done |
 | 19 | `states/retention-lifecycle.mmd` | 3672×2378 | src/collectors/retention.js, src/config/source-registry.js (retentionHours), src/workers/maintenance.worker.js, src/collectors/reddit/{maintenance,recheck}.js, scripts/compact.js (purgeDemoPosts, compactMonth), scripts/populate.js (demo embed jobs), src/collectors/runner.js and src/workers/ingest.worker.js (embed gate), src/pipeline/relevance.js (EMBED_GATE_MIN_SCORE); migrations 001 (content NOT NULL), 005, 025, 031. Spec: TECHNICAL_SPEC.md section 19 (three-tier model); ADR 0001 ruling 9; PR #22 decisions G3, G4. | 19; ADR 0001 ruling 9 | done |
-| 20 | `states/processing-job-lifecycle.mmd` | 4198×1642 | src/collectors/cycle.js (currentCycleJob, claimDueCycles, closeCycles), src/collectors/runner.js (scoreVia, touch), src/collectors/stale-jobs.js (sweepStaleJobs), src/workers/maintenance.worker.js, src/routes/refresh.js, src/workers/{collect,ingest}.worker.js, scripts/populate.js, src/db/migrations/001, 019, 021, 040. Spec: TECHNICAL_SPEC.md sections 7 (POST /api/refresh), 9 (when bias checks run) and 19 (Tier 3); PR #22 decision G4. | 7, 9 | done |
-| 21 | `data/erd-4-governance-alerting-maintenance.mmd` | 6649×1949 | src/db/migrations/028, 030, 032, 034, 035, 036, 038, 039, 041, 050, 056, 060. Writers: src/collectors/source-alerts.js, src/watchdog/store.js and migrations 028, 032, 038 (resolutions of historical alerts) (alert_resolutions), src/collectors/run-retention.js (source_run_daily), src/collectors/governance.js (source_gate_events, source_terms_snapshots), src/workers/maintenance.worker.js (maintenance_state), src/watchdog/store.js (watchdog_state, watchdog_notifications), src/pipeline/bias-window.js and bias.js (bias_window_*), scripts/seed.js and migration 030 (methodology_errata). alert_events, methodology_versions and data_sources are shown with their keys only (full columns in data models 1 and 2). APPEND-ONLY (BEFORE UPDATE OR DELETE trigger forbid_append_only_change): alert_resolutions, alert_resolution_approvals, methodology_errata, source_gate_events, source_terms_snapshots (036), watchdog_notifications (050), bias_window_assessments (060); correlation_gate_events (056) is in data model 3. VIEW_alert_status is a view, not a table. Dotted lines are logical links without a foreign key. | 6, 9, 14, 17, 19 | done |
+| 20 | `states/processing-job-lifecycle.mmd` | 4198×1642 | src/collectors/cycle.js (currentCycleJob, claimDueCycles, closeCycles), src/collectors/runner.js (scoreVia, touch), src/collectors/stale-jobs.js (sweepStaleJobs), src/workers/maintenance.worker.js, src/routes/refresh.js, src/workers/{collect,ingest}.worker.js, scripts/populate.js, src/db/migrations/001, 019, 021, 040. Spec: TECHNICAL_SPEC.md sections 7 (POST /api/refresh), 9 (when bias checks run) and 19 (Tier 3); PR #22 decision G4. | 7, 9, 19 | done |
+| 21 | `data/erd-4-governance-alerting-maintenance.mmd` | 6649×1949 | src/db/migrations/028, 030, 032, 034, 035, 036, 038, 039, 041, 050, 056, 060, 061. Writers: src/collectors/source-alerts.js, src/watchdog/store.js and migrations 028, 032, 038 (resolutions of historical alerts) (alert_resolutions), src/collectors/run-retention.js (source_run_daily), src/collectors/governance.js (source_gate_events, source_terms_snapshots), src/workers/maintenance.worker.js (maintenance_state), src/watchdog/store.js (watchdog_state, watchdog_notifications), src/pipeline/bias-window.js and bias.js (bias_window_*), scripts/seed.js and migrations 030 and 061 (methodology_errata), migration 036 (alert_resolution_approvals). alert_events, methodology_versions and data_sources are shown with their keys only (full columns in data models 1 and 2). APPEND-ONLY (BEFORE UPDATE OR DELETE trigger forbid_append_only_change): alert_resolutions, alert_resolution_approvals, methodology_errata, source_gate_events, source_terms_snapshots (036), watchdog_notifications (050), bias_window_assessments (060); correlation_gate_events (056) is in data model 3. VIEW_alert_status is a view, not a table. Dotted lines are logical links without a foreign key. Spec: TECHNICAL_SPEC.md sections 6, 9, 14, 17, 19. | 6, 9, 14, 17, 19 | done |
 
 Also in `docs/diagrams/`: `README.md` (index, status legend, known gaps, spec drift notes), this `MANIFEST-author.md`, `render.sh`, `png_mmd_hash.py` (embeds and checks the `mmd-sha256` PNG chunk), `mmdc-config.json`. The pre-existing `architecture.{mmd,html,png}` were updated in place (same paths, so existing links keep working).
 
